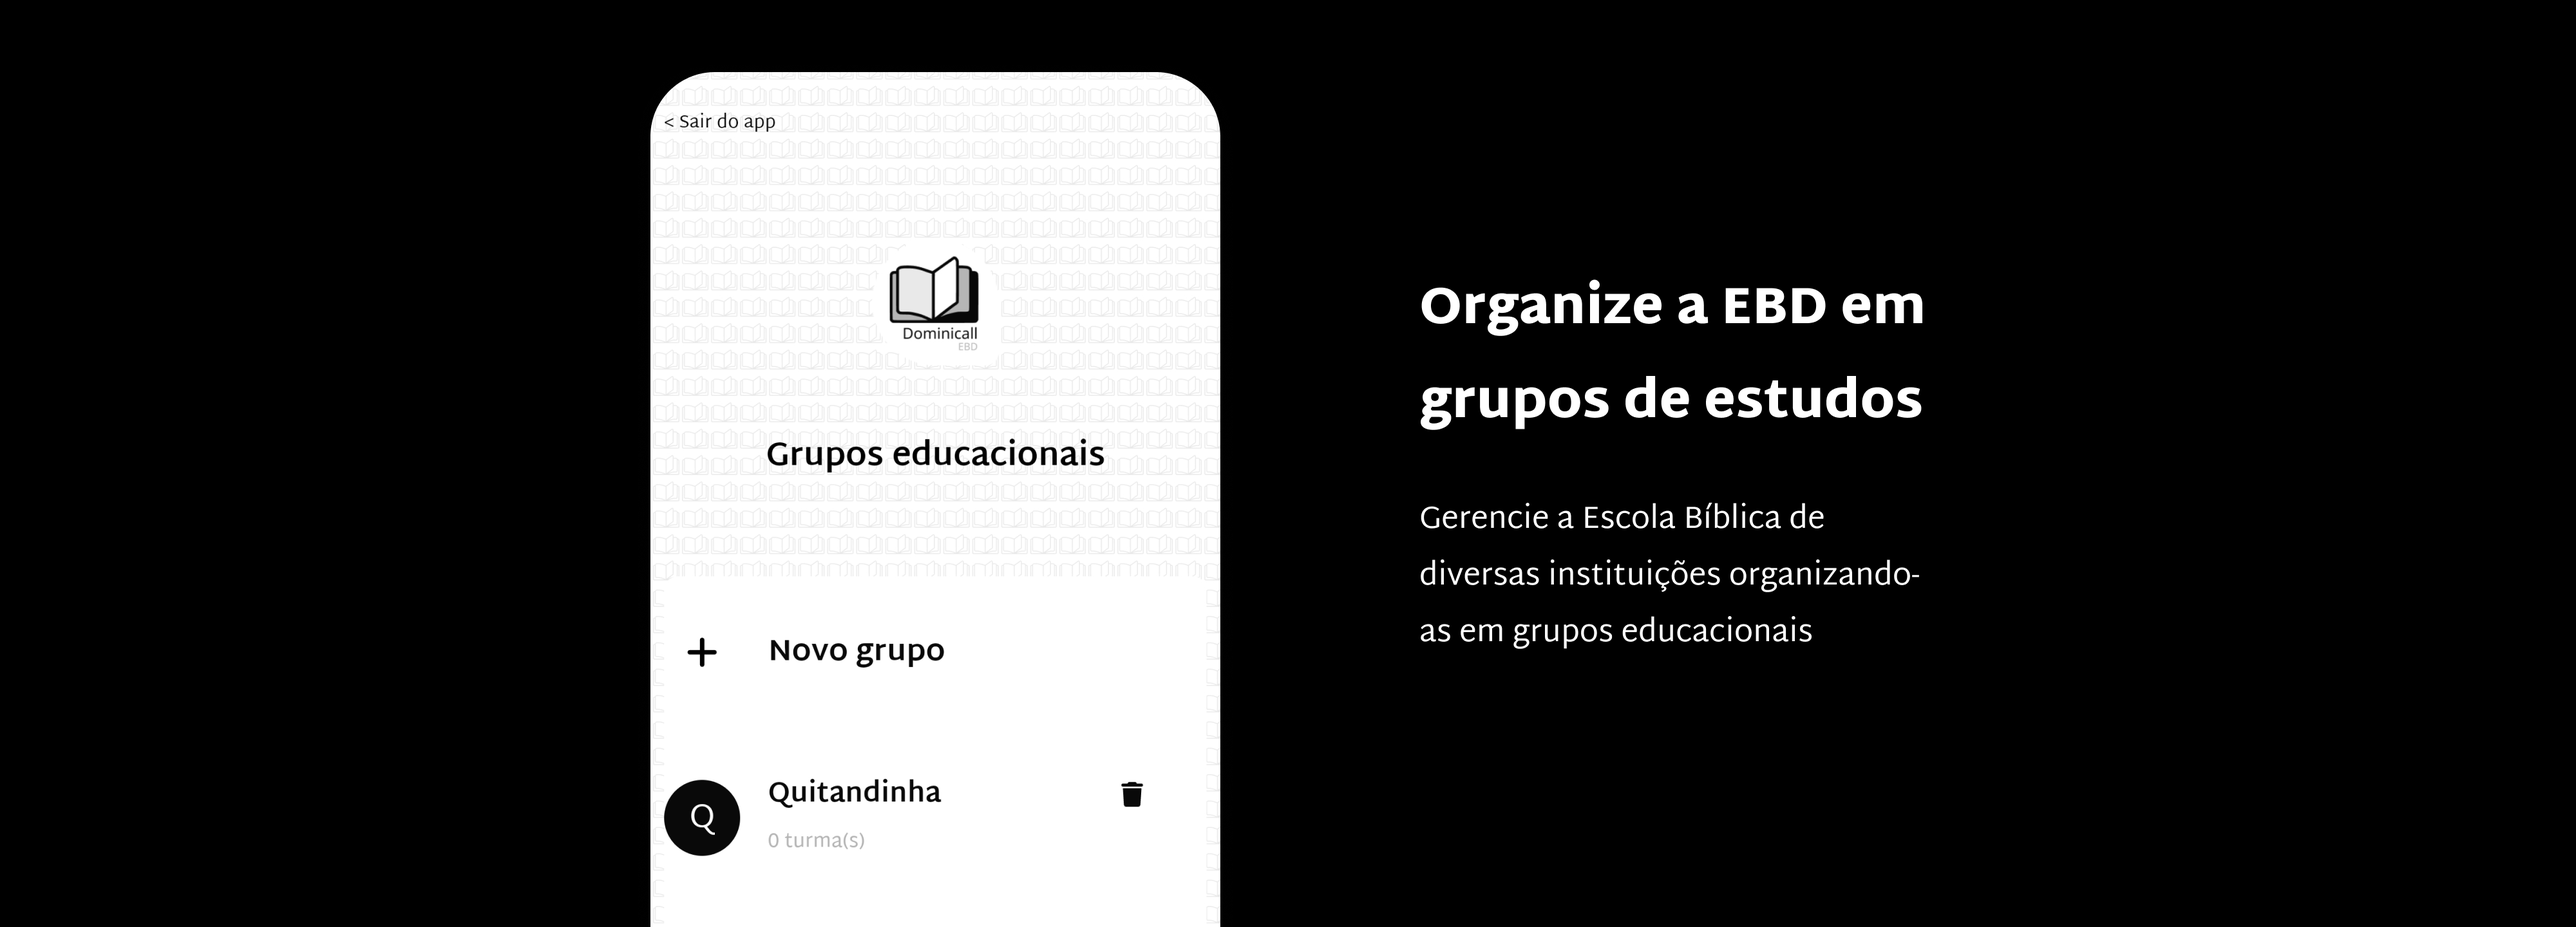
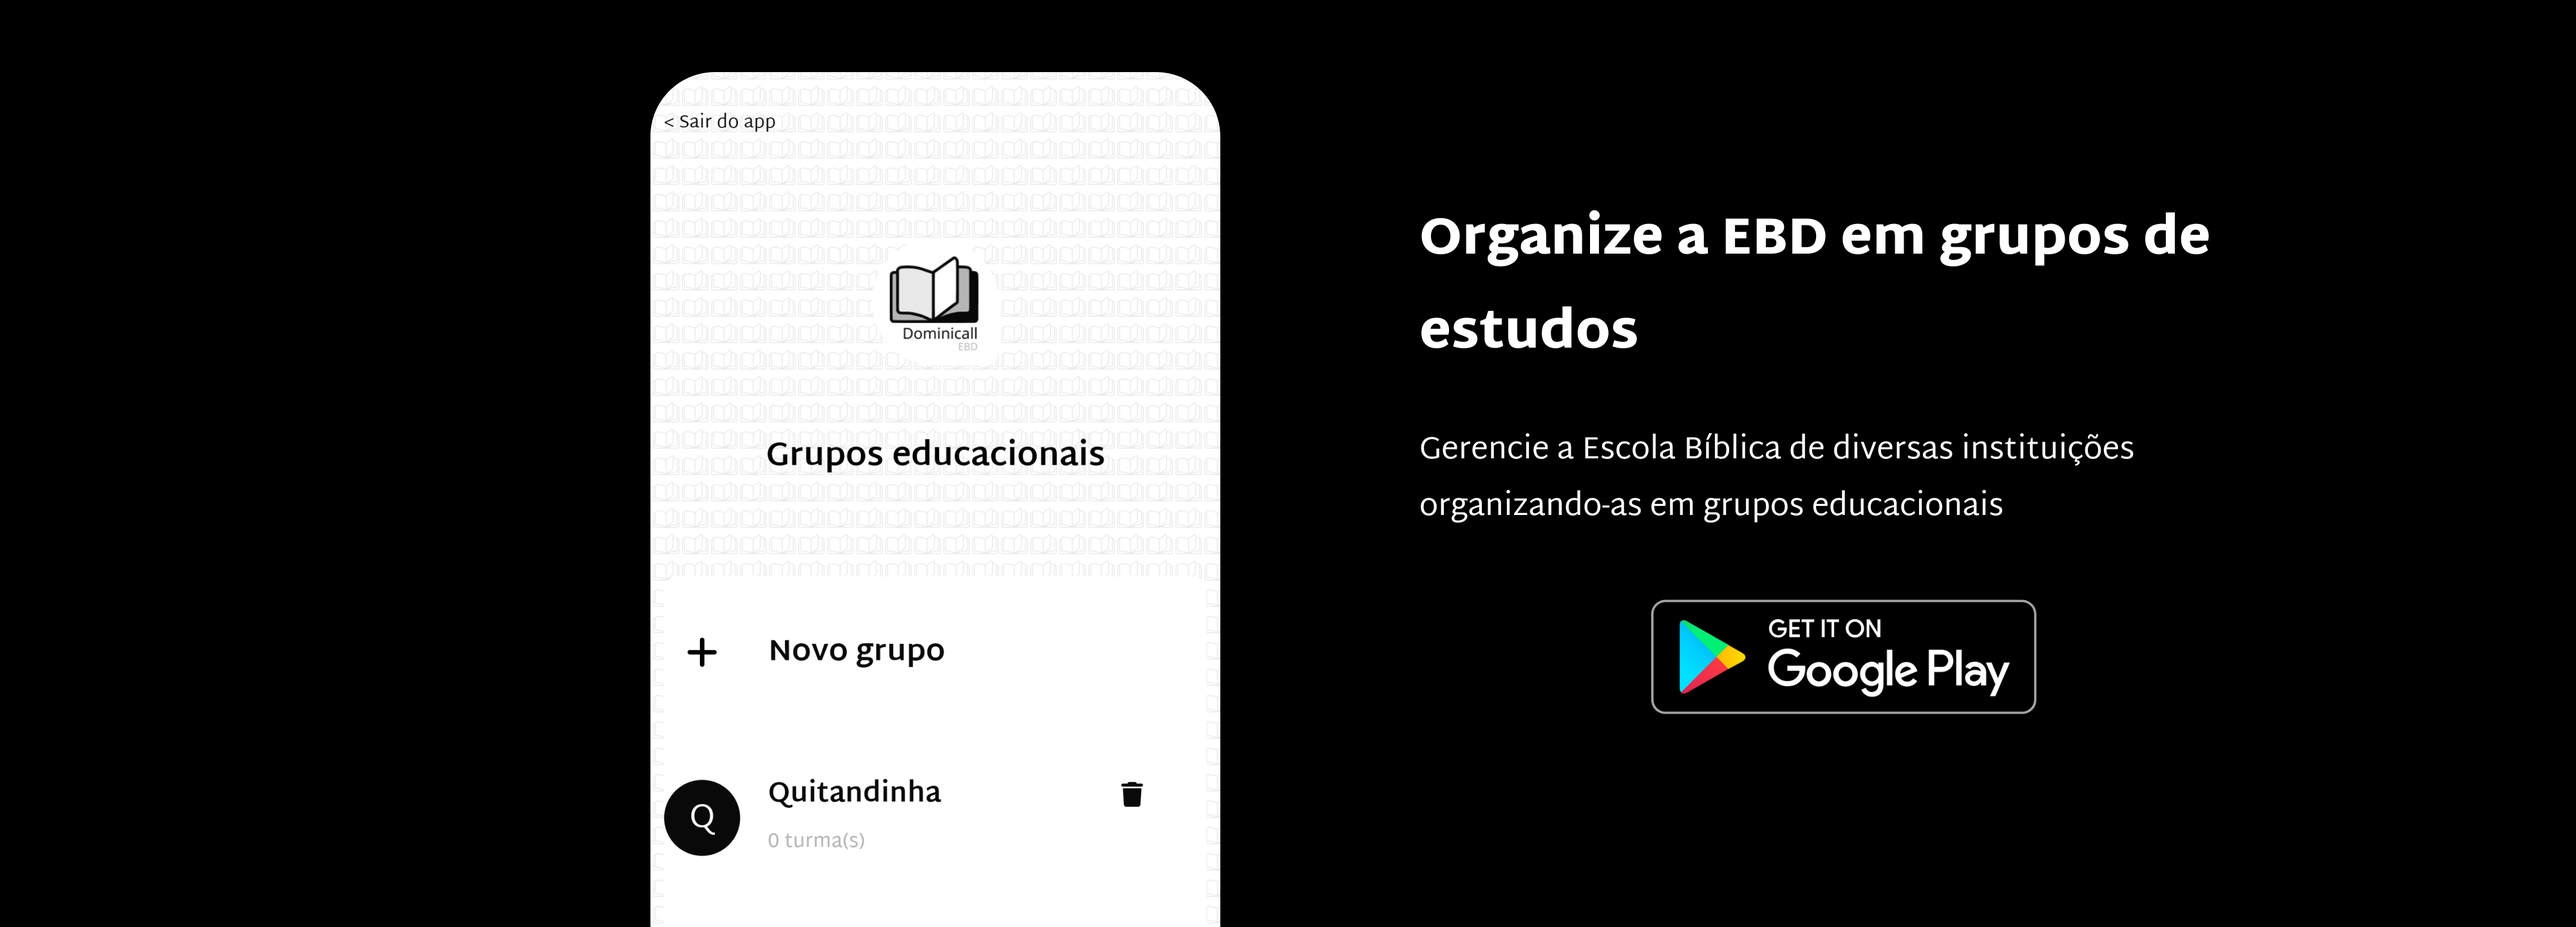
Adicionando landing page para o app

diff --git a/site/index.html b/site/index.html
@@ -15,28 +15,88 @@
     </head>
     <body>
         <div id='header'>
-            <!-- <div class="row">
-                <div class="col offset-s1 s10 center">
-                    <img src="./img/dominicall.png" alt='Dominicall' title='Dominicall'/>   
-                </div>
-            </div> -->
             <div class="carousel carousel-one">
                 <a class="carousel-item" href="#"><img src="./img/dominicall.png"></a>
                 <a class="carousel-item" href="#"><img src="./img/dominicall.png"></a>
                 <a class="carousel-item" href="#"><img src="./img/dominicall.png"></a>
             </div>
         </div>
-        <div id="content bg-black">
-
-            <div class="carousel carousel-two bg-black">
-                <a href='#' class="carousel-item center" style="width:100%">
-                    <img src="./img/tv1.png" class='img-slide' alt='Dominicall' title='Dominicall'/>   
-                </a>
-                <a href='#' class="carousel-item center" style="width:100%">
-                    <img src="./img/tv2.png" class='img-slide' alt='Dominicall' title='Dominicall'/>   
-                </a>
+        <div id="content" class='center'>
+            <div class="row hideOnMobile">
+                <div class="col offset-s3 s6">
+                    <h4>Bem-vindo!</h4>
+                    
+                    <p>Nós somos um novo app para gestão de Escola Bíblia Dominical.</p>
+                    <p>Entendemos que aquilo que fazemos para o Senhor deve serexcelente e criamos esse app para que todos tenham acesso a uma ferramenta visando esse fim.</p>
+                    <p>Então te convidamos a poupar tempo e recursos usando o app que automatiza tarefas para você e sua equipe. Baixe hoje mesmo o Dominicall EBD e conte com o suporte gratuito de nosso time!</p>
+                    <p>Caso necessário, entre em contato direto conosco através do e-mail lrobertodaldegan@hotmail.com .</p>
+                    <p>Quer saber mais? Confira abaixo um pouco mais sobre o nosso app!</p>
+                    <p>Que Deus lhe abençoe!</p>
+                </div>
             </div>
 
+            <div class="row showOnMobile">
+                <div class="col offset-s1 s10">
+                    <h4>Bem-vindo!</h4>
+                    
+                    <p>Nós somos um novo app para gestão de Escola Bíblia Dominical.</p>
+                    <p>Entendemos que aquilo que fazemos para o Senhor deve serexcelente e criamos esse app para que todos tenham acesso a uma ferramenta visando esse fim.</p>
+                    <p>Então te convidamos a poupar tempo e recursos usando o app que automatiza tarefas para você e sua equipe. Baixe hoje mesmo o Dominicall EBD e conte com o suporte gratuito de nosso time!</p>
+                    <p>Caso necessário, entre em contato direto conosco através do e-mail lrobertodaldegan@hotmail.com .</p>
+                    <p>Quer saber mais? Confira abaixo um pouco mais sobre o nosso app!</p>
+                    <p>Que Deus lhe abençoe!</p>
+                </div>
+            </div>
+
+            <div class="bg-black hideOnMobile center">
+                <div class="carousel carousel-two">
+                    <a href='https://play.google.com/store/apps/details?id=com.dominicall' class="carousel-item center" style="width:100%">
+                        <img src="./img/tv1.png" class='img-slide' alt='Dominicall' title='Dominicall'/>   
+                    </a>
+                    <a href='https://play.google.com/store/apps/details?id=com.dominicall' class="carousel-item center" style="width:100%">
+                        <img src="./img/tv2.png" class='img-slide' alt='Dominicall' title='Dominicall'/>   
+                    </a>
+                    <a href='https://play.google.com/store/apps/details?id=com.dominicall' class="carousel-item center" style="width:100%">
+                        <img src="./img/tv3.png" class='img-slide' alt='Dominicall' title='Dominicall'/>   
+                    </a>
+                    <a href='https://play.google.com/store/apps/details?id=com.dominicall' class="carousel-item center" style="width:100%">
+                        <img src="./img/tv4.png" class='img-slide' alt='Dominicall' title='Dominicall'/>   
+                    </a>
+                    <a href='https://play.google.com/store/apps/details?id=com.dominicall' class="carousel-item center" style="width:100%">
+                        <img src="./img/tv5.png" class='img-slide' alt='Dominicall' title='Dominicall'/>   
+                    </a>
+                    <a href='https://play.google.com/store/apps/details?id=com.dominicall' class="carousel-item center" style="width:100%">
+                        <img src="./img/tv6.png" class='img-slide' alt='Dominicall' title='Dominicall'/>   
+                    </a>
+                </div>
+
+                <small>Clique na imagem acima para acessar a Google Play Store.</small>
+            </div>
+
+            <div class="bg-black showOnMobile center">
+                <div class="carousel carousel-two">
+                    <a href='https://play.google.com/store/apps/details?id=com.dominicall' class="carousel-item center" style="width:100%">
+                        <img src="./img/mobile/tv1.png" class='img-slide' alt='Dominicall' title='Dominicall'/>   
+                    </a>
+                    <a href='https://play.google.com/store/apps/details?id=com.dominicall' class="carousel-item center" style="width:100%">
+                        <img src="./img/mobile/tv2.png" class='img-slide' alt='Dominicall' title='Dominicall'/>   
+                    </a>
+                    <a href='https://play.google.com/store/apps/details?id=com.dominicall' class="carousel-item center" style="width:100%">
+                        <img src="./img/mobile/tv3.png" class='img-slide' alt='Dominicall' title='Dominicall'/>   
+                    </a>
+                    <a href='https://play.google.com/store/apps/details?id=com.dominicall' class="carousel-item center" style="width:100%">
+                        <img src="./img/mobile/tv4.png" class='img-slide' alt='Dominicall' title='Dominicall'/>   
+                    </a>
+                    <a href='https://play.google.com/store/apps/details?id=com.dominicall' class="carousel-item center" style="width:100%">
+                        <img src="./img/mobile/tv5.png" class='img-slide' alt='Dominicall' title='Dominicall'/>   
+                    </a>
+                    <a href='https://play.google.com/store/apps/details?id=com.dominicall' class="carousel-item center" style="width:100%">
+                        <img src="./img/mobile/tv6.png" class='img-slide' alt='Dominicall' title='Dominicall'/>   
+                    </a>
+                </div>
+
+                <small>Toque na imagem acima para baixar o app.</small>
+            </div>
             
         </div>
         <div id='rodaperow' class="row bg-black">
@@ -57,11 +117,8 @@
                         <a href="https://api.whatsapp.com/send?phone=5541995429288&text=Oi" target="_blank" title="Whatsapp">
                             WhatsApp
                         </a> 
-                    </div>
-                </div>
-                <div class="row">
-                    <div class="col s12 center">
-                        <small id="year"></small>
+
+                        <p id="year"></p>
                     </div>
                 </div>
             </div>
@@ -70,6 +127,8 @@
         <script src="js/materialize.js"></script>
         <script>
             document.addEventListener('DOMContentLoaded', function() {
+                $('#year').html(new Date().getFullYear());
+
                 var elems = document.querySelectorAll('.carousel');
                 var instances = M.Carousel.init(elems, {});
 
@@ -77,6 +136,8 @@
                     fullWidth: true,
                     indicators: true,
                 });
+
+                setInterval(() => $('.carousel.carousel-two').carousel('next'), 7000);
             });
         </script>
     </body>

diff --git a/site/css/custom.css b/site/css/custom.css
@@ -10,18 +10,29 @@ body{
     overflow-x: hidden;
     font-family: 'Martel Sans', sans-serif;
 }
+h4{
+    font-weight: bold;
+}
 p {
     text-align: justify;
 }
 .bg-black{
     background-color: #000000;
+    color:#fff;
+}
+.hideOnMobile{
+    display: none;
 }
 
-.carousel-two a{
-    width: 100%;
+.carousel-two{
+    margin-bottom: 10px;
 }
 
-
+#rodaperow{
+    margin-bottom:0;
+    padding-bottom:50px;
+    padding-top:50px;
+}
 #rodape{
     color:#fff;
 }
@@ -32,12 +43,9 @@ p {
 
 @media only screen and (min-width: 768px){
     .hideOnMobile {
-        display:inline;
+        display:block;
     }
     .showOnMobile {
         display:none;
-    }
-    .centerOnMobile {
-        text-align:left
     }
 }
